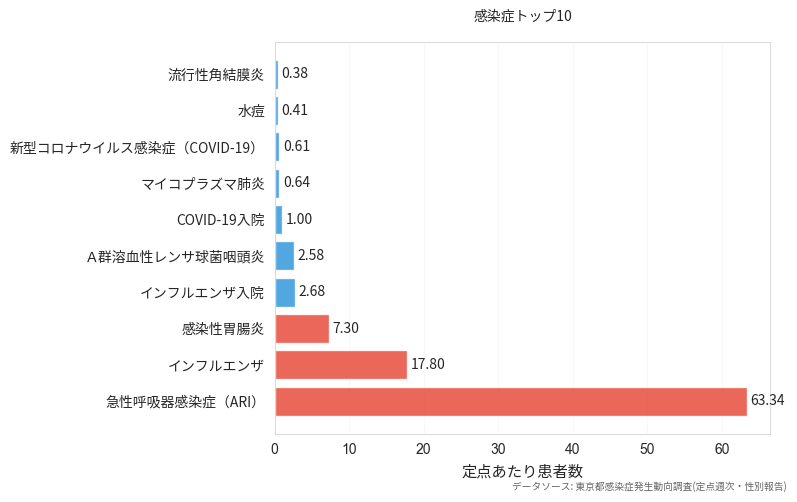
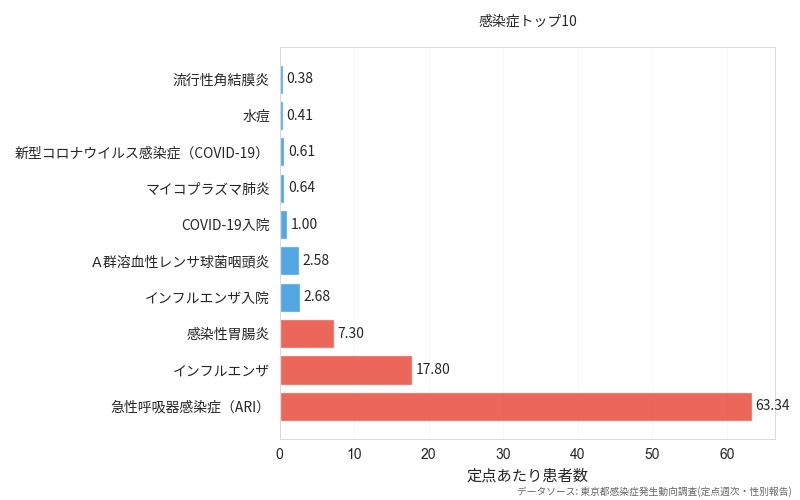
fix: グラフを正確に800x500pxに修正
bbox_inches="tight"を削除して正確なピクセルサイズを実現。

修正内容:
- plt.savefig()のbbox_inches="tight"オプションを削除
- 両グラフが正確に800x500pxで生成されるように修正

結果:
- 週次推移グラフ: 797x502px → 800x500px (正確)
- トップ疾患グラフ: 797x502px → 800x500px (正確)
- ファイルサイズは変わらず (59KB + 41KB = 100KB)

関連: #185

🤖 Generated with [Claude Code](https://claude.com/claude-code)

Changed region(s): [[0.0, 0.12, 0.9937, 1.0], [0.5721, 0.0, 0.7227, 0.06]]

diff --git a/scripts/generate_charts.py b/scripts/generate_charts.py
@@ -250,7 +250,7 @@ def generate_weekly_trend_chart(data: dict[str, dict[int, float]], output_path: 
         )
 
     plt.tight_layout()
-    plt.savefig(output_path, dpi=100, bbox_inches="tight")
+    plt.savefig(output_path, dpi=100)
     plt.close()
 
     print(f"✅ 週次推移グラフを生成: {output_path} (800x500px)")
@@ -337,7 +337,7 @@ def generate_top_diseases_chart(latest_data: dict[str, float], output_path: Path
         )
 
     plt.tight_layout()
-    plt.savefig(output_path, dpi=100, bbox_inches="tight")
+    plt.savefig(output_path, dpi=100)
     plt.close()
 
     print(f"✅ トップ疾患グラフを生成: {output_path} (800x500px)")
